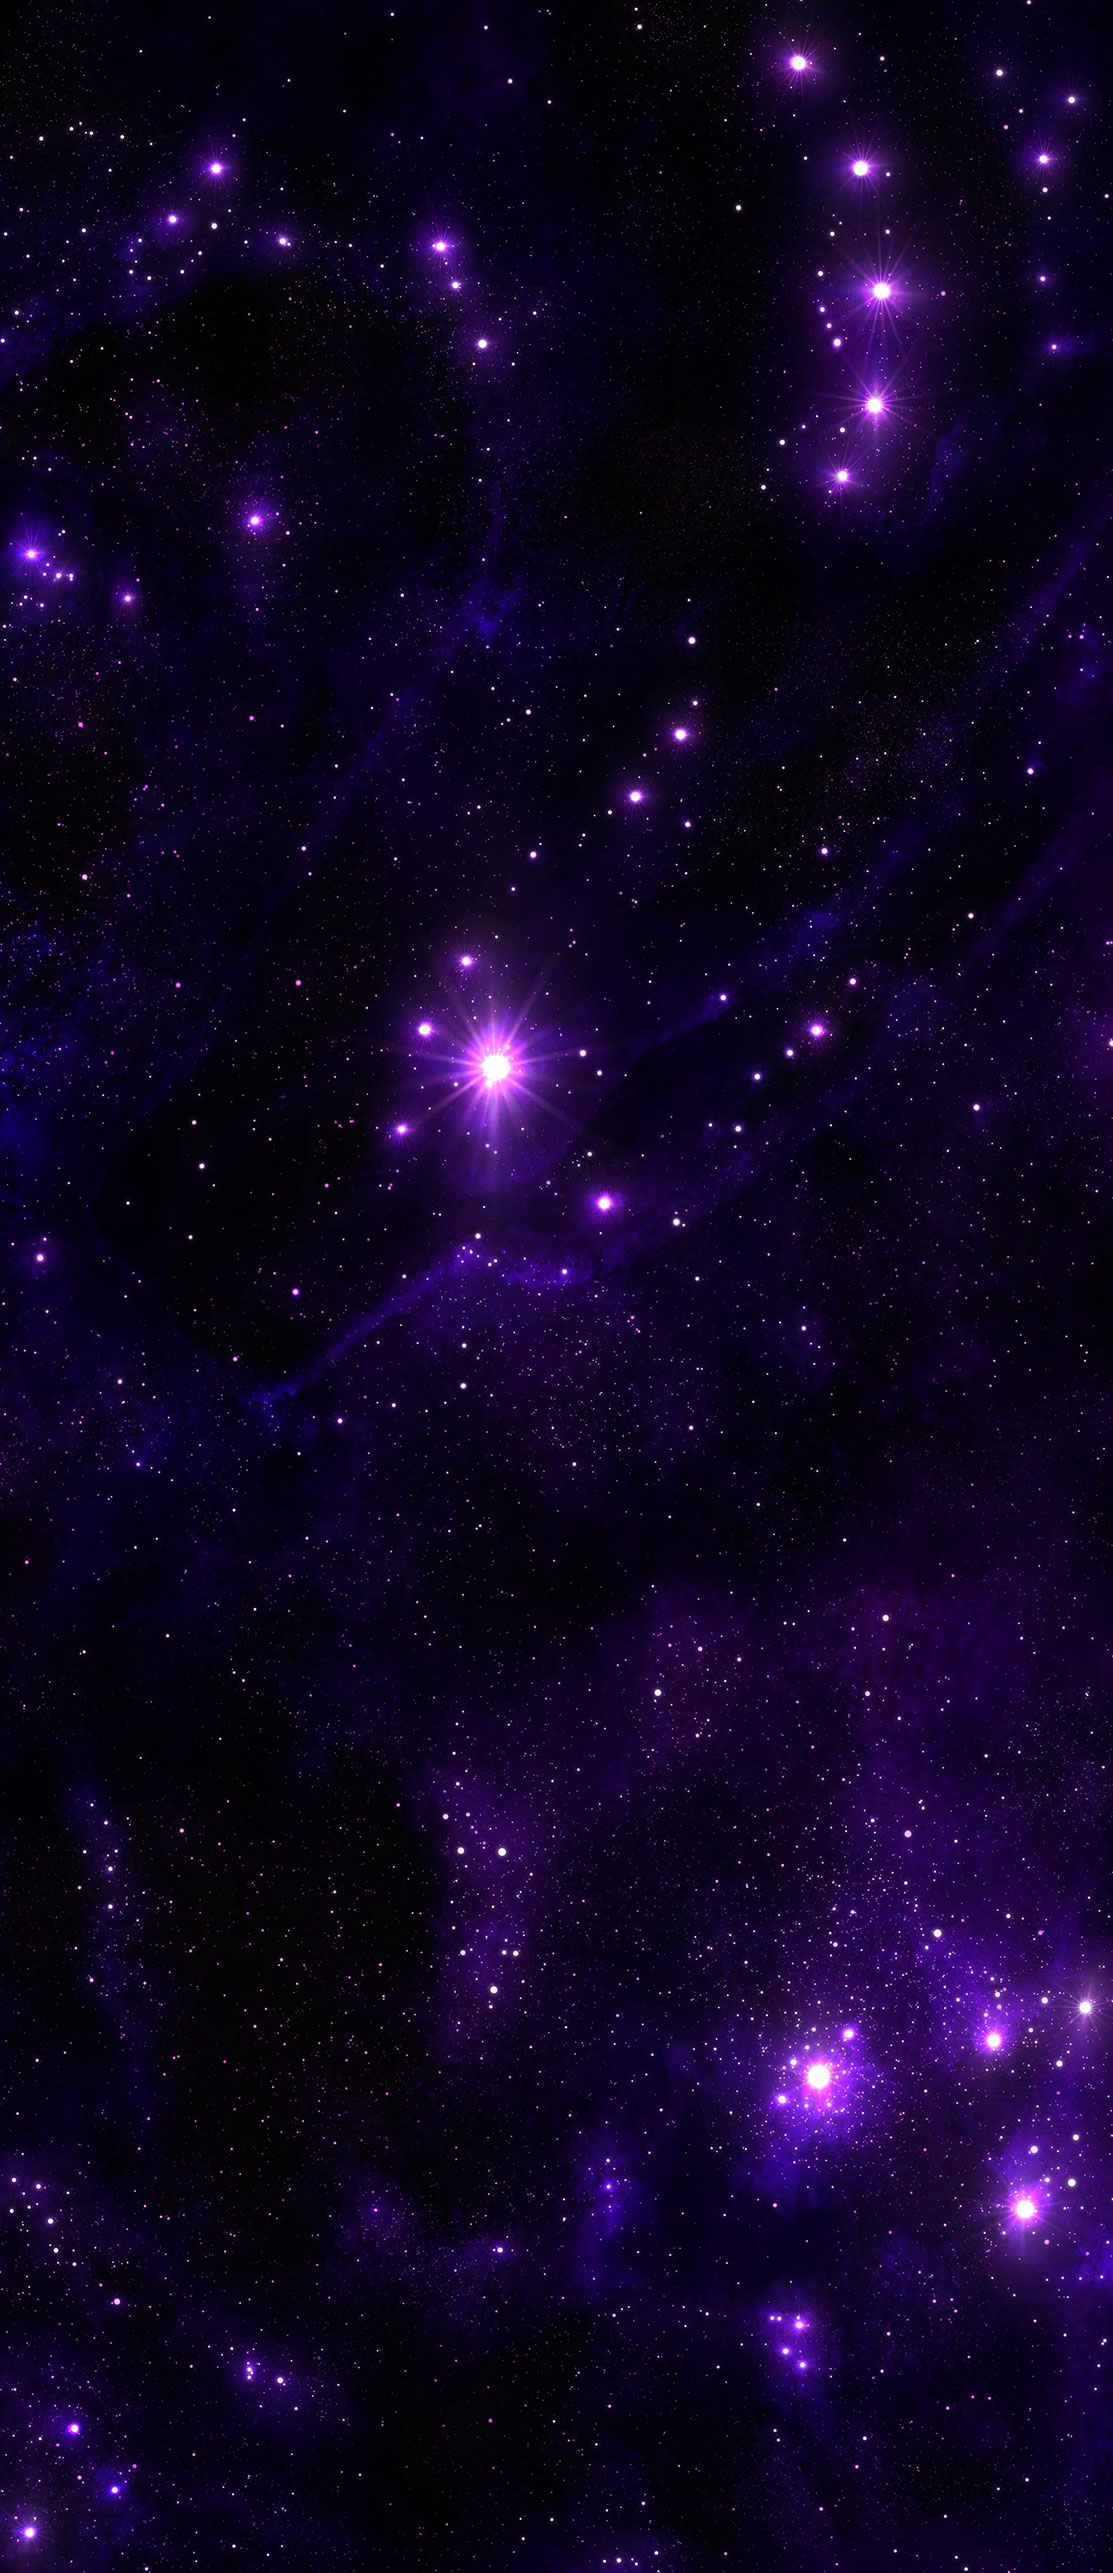
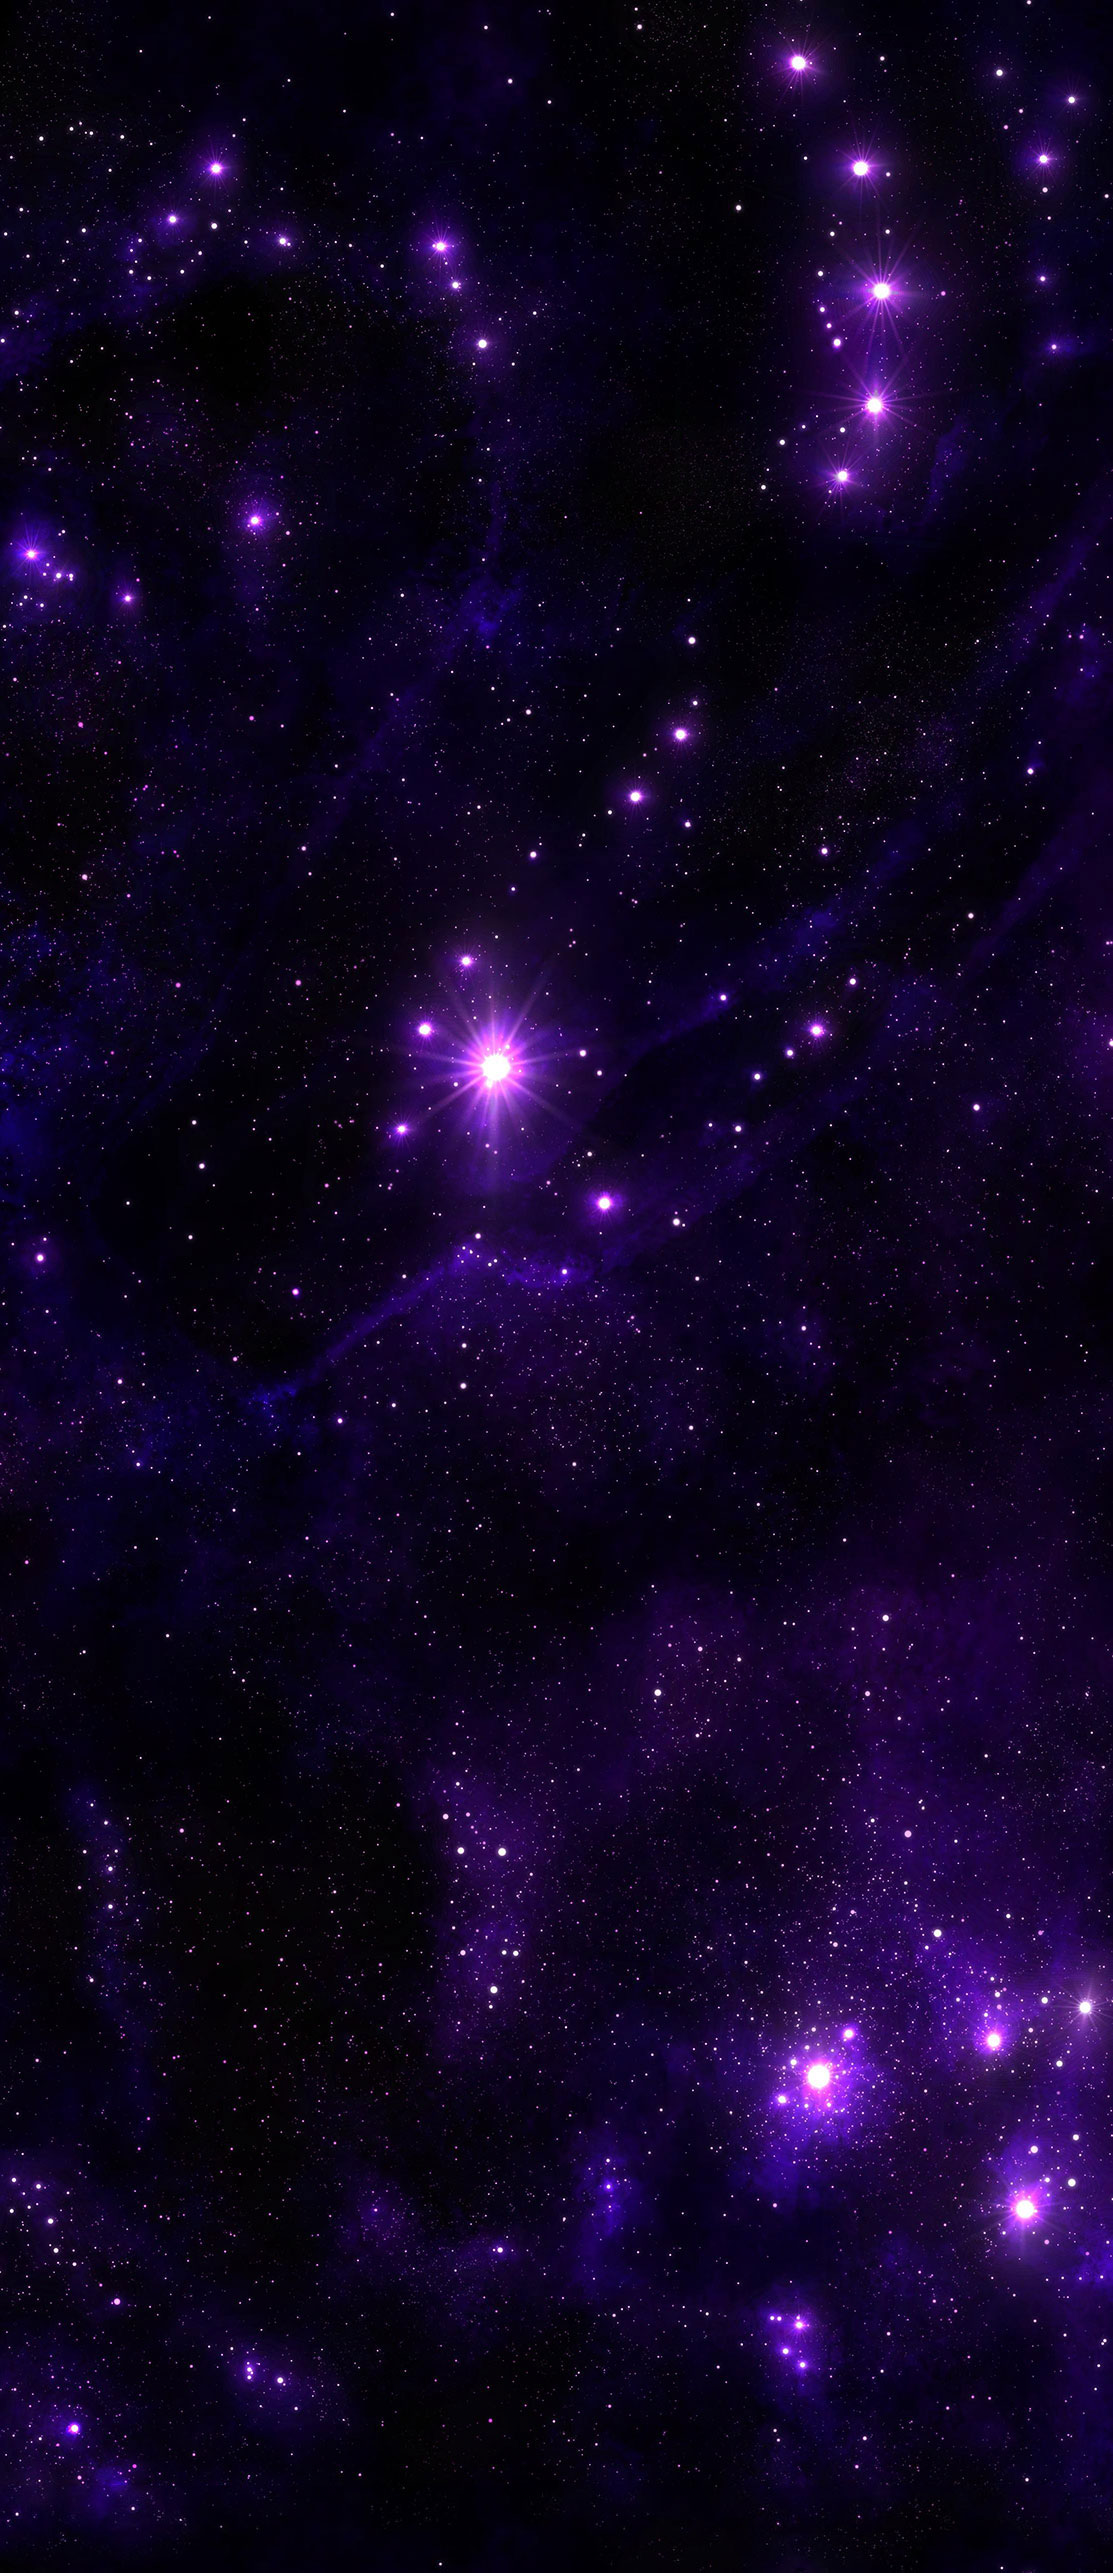
add bg animation

Changed region(s): [[0.7026, 0.9639, 0.9164, 1.0], [0.0, 0.9639, 0.1527, 1.0], [0.4888, 0.9639, 0.6415, 1.0]]

diff --git a/examples/04a-sprite-actions.html b/examples/04a-sprite-actions.html
@@ -15,12 +15,18 @@
             position: absolute;
             bottom: 10px;
             right: 100px;
+            color: white;
+            white-space: pre-wrap;
           }
         </style>
     </head>
     <body>
       <div id="app" class="app"></div>
-      <p id="tip">Tip: </p>
+      <p id="tip">
+      Tip: 
+      'w, a, s, d': plane direction
+      'k': plane shoot
+      </p>
       <script src="../dist/easycanvas.2d.js"></script>
       <script type="text/javascript">
         var assets = [
@@ -41,6 +47,8 @@
           var fore = scene.foreLayer;
           var back = scene.backLayer;
 
+          scene.showFPS();
+
           var bgImg = EC.assets.get('bg');
 
           var bg = back.createBG({
@@ -51,14 +59,21 @@
           });
           back.render();
 
+          var tempBg = new EC.ECImage({
+            img: bgImg,
+            sy: bgImg.height, //hidden
+            sw: back.width,
+            sh: back.height
+          });
+          back.addImage(tempBg);
+
           var plane = new EC.Sprite({
             name: 'plane',
             img: EC.assets.get('plane'),
             cols: 5,
             rows: 8,
             frames: 39,
-            frameRate: 24,
-            autoStart: false
+            frameRate: 24
           });
 
           fore.addImage(plane);
@@ -88,33 +103,47 @@
             frames: 4,
             swing: true,
             frameRate: 5
-          })
+          });
 
           var ani = new EC.Animation(function() {
-            if (bg.direction === 'up') {
-              if (bg.sy > 0) {
-                bg.sy--;
-              } else {
-                plane.motion.setVel([0, -1]);
-              }
+            //bg move
+            if (bg.sy > 0) {
+              bg.sy-=1;
+            } else if (bgImg.height - tempBg.sy < back.height) {
+              var sy = bgImg.height - tempBg.sy;
+              var dist = back.height - sy;
+              bg.sy = 0;
+              bg.sh = bg.dh = dist;
+              bg.dy = sy;
+              //render tempbg, for seamless render
+              tempBg.sh = tempBg.dh = sy + 1;
+              tempBg.dy = 0;
+              tempBg.sy-=1;
+            } else {
+              bg.dy = 0;
+              bg.sy = bgImg.height-back.height;
+              bg.sh = bg.dh = back.height;
+              tempBg.sy = bgImg.height;
+              
             }
-            if (bg.direction === 'down') {
-              if (bg.sy < bgImg.height - back.height) {
-                bg.sy++;
-              } else {
-                plane.motion.setVel([0, 1]);
+            fore.objects.forEach(function(obj) {
+              obj.updatePos();
+              if (obj.pos[1] < -20) {
+                fore.objects.delete(obj.id);
               }
-            }
-            plane.updatePos();
+            })
+            
             var x = plane.pos[0], y = plane.pos[1];
             var vel = plane.motion.vel;
+
             if (x < 0 || x > fore.width - 64) {
               vel[0] = 0;
             }
             if (y < 0 || y > fore.height - 64) {
               vel[1] = 0;
             }
-            plane.motion.setVel(vel);
+            plane.motion.setVel([vel[0], vel[1]]);
+
             back.clear();
             back.render();
             fore.clear();
@@ -124,31 +153,45 @@
           ani.start();
           plane.action('swing');
 
-            
           //debug
+          window.back = back;
           window.fore = fore; 
+          window.ani = ani;
+
+          function shoot() {
+            var bullet = new EC.Geometry;
+            bullet.path.ellipse(0, 0, 5, 20, 0, 0, Math.PI * 2, false);
+            bullet.setStyle({
+              fill: 'white'
+            });
+            bullet.motion.setAccel([0, -.5]);
+            bullet.pos = [plane.pos[0] + plane.width - 5, plane.pos[1]];
+            fore.addGeom(bullet);
+          }
 
           window.addEventListener('keydown', function(e) {
+            if (!e.key) {
+              e.key = String.fromCharCode(e.keyCode).toLowerCase();
+            }
             switch (e.key) {
               case 'w':
-                plane.motion.setVel([0, 0]);
-                bg.direction = 'up';
+                plane.motion.setVel([0, -2]);
                 plane.action('swing');
                 break;
               case 'a':
-                bg.direction = null;
                 plane.motion.setVel([-2, 0]);
                 plane.action('toLeft');
                 break;
               case 's':
-                plane.motion.setVel([0, 0]);
-                bg.direction = 'down';
+                plane.motion.setVel([0, 2]);
                 plane.action('swing');
                 break;
               case 'd':
-                bg.direction = null;
                 plane.motion.setVel([2, 0]);
                 plane.action('toRight');
+                break;
+              case 'k':
+                shoot();
                 break;
             }
           });

diff --git a/README.md b/README.md
@@ -46,6 +46,8 @@
 
 * firefox的currentTransform返回数组而非SVGMatrix, 其他桌面浏览器和ios移动端浏览器不支持context.currentTransform，用polyfill兼容
 
+* safari下drawImage不支持绘制超出原图区域的空白部分，导致不报错但不执行，需要偏移转换为绘制较小区域
+
 ### 性能对比
 
 * SVGMatrix和DOMMatrix的一般矩阵方法调用上性能相当
